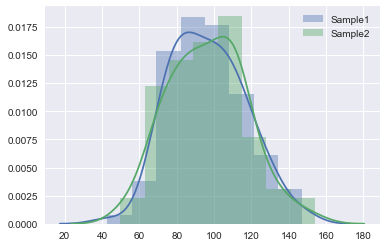
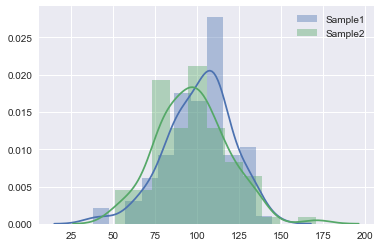
updated typeI/II readme

diff --git a/dsc-2-20-11type-1-and-type-2-errors-lab-online-ds-ft-100118_sg/README.md b/dsc-2-20-11type-1-and-type-2-errors-lab-online-ds-ft-100118_sg/README.md
@@ -12,9 +12,26 @@ In this lab, you'll run some of your own simulations to learn more about type 1 
 You will be able to:
 
 * Explain why alpha = 0.05 is chosen as the cut off point for rejecting Null hypothesis in most scientific experiments
+    * It's a convention and is a good tradeoff between type I and type II error.
+
 * Simulate Type I and Type II errors with alpha control to observe the output of an experiment
 * Describe and differentiate between TYPE I and TYPE II errors
-* Understand alpha and beta for representing false positive and false negative values
+    * Determine how type I and type II errors are effected by alpha
+    * Type I is where we see a difference but there is not one, reject but we shouldn't reject null hypothesis (false positive)
+    * Type II is where we should reject the null, but we fail to do so.  In other words we're accepting the null hypothesis, but it's actually false.
+* Describe alpha and beta for representing false positive and false negative values
+    * alpha increases
+        * type I will increase because the space outside of the 'good region' is increasing
+        * type II will decrease because the 'good region' is decreasing
+    * Converse is true if alpha decreases
+
+
+# What we learned
+* How to evaluate whether random samples are representative of a total population - chris
+* Tradeoff between type I and type II errors, dictated by alpha - Danyal
+* Sampling distributions are distributions of means, for example, of a population. - Chris
+* Learned to divide alpha by 2 to get the tails. - Masood
+* How to put a sample distribution on a sampling distribution plot/graph.
 
 ## Alpha and Beta
 
@@ -59,7 +76,7 @@ sns.distplot(pop)
 
 
 
-    <matplotlib.axes._subplots.AxesSubplot at 0x1085d2e48>
+    <matplotlib.axes._subplots.AxesSubplot at 0x1a10083dd8>
 
 
 
@@ -84,7 +101,7 @@ stats.describe(sample1)
 
 
 
-    DescribeResult(nobs=100, minmax=(42.894352216842066, 147.28560302587476), mean=96.61297543591365, variance=405.5116712908975, skewness=0.23988419345642897, kurtosis=-0.26276760640849295)
+    DescribeResult(nobs=100, minmax=(37.937428169323496, 144.9108713600725), mean=101.17878327192903, variance=390.0737390627844, skewness=-0.5052834136523039, kurtosis=0.47573896699174334)
 
 
 
@@ -101,7 +118,7 @@ stats.describe(sample2)
 
 
 
-    DescribeResult(nobs=100, minmax=(49.83527162898597, 154.07785139854766), mean=96.47071308388206, variance=433.7562450962168, skewness=0.17264373338860386, kurtosis=-0.2241136639981094)
+    DescribeResult(nobs=100, minmax=(51.29585873925131, 171.15353116938894), mean=97.26149261303051, variance=443.83261928981943, skewness=0.34305326468690917, kurtosis=0.5882283788214968)
 
 
 
@@ -120,7 +137,7 @@ stats.ttest_ind(sample1, sample2)
 
 
 
-    Ttest_indResult(statistic=0.04910657831019071, pvalue=0.9608838604654049)
+    Ttest_indResult(statistic=1.3565229770313056, pvalue=0.1764775314643652)
 
 
 
@@ -146,8 +163,11 @@ plt.show()
 
 ## Simulating Type I and II errors
 
-### Type I error
-TYPE I error describes a situation where you reject the null hypothesis when it is actually true. This type of error is also known as a "false positive" or "false hit". The type 1 error rate is equal to the significance level α, so setting a higher confidence level (and therefore lower alpha) reduces the chances of getting a false positive.
+### Type I error - Rejecting when you shouldn't
+TYPE I error describes a situation where you reject the null hypothesis when it is actually true. This type of error is also known as a "false positive" or "false hit". The type 1 error rate is equal to the significance level α, **so setting a higher confidence level (and therefore lower alpha) reduces the chances of getting a false positive.**
+
+
+### alpha = tolerance - how many sample metrics we will tolerate to be outside of the hypothesized distribution metric.
 
 
 
@@ -174,6 +194,9 @@ import pandas as pd
 
 numTests = 100
 alphaSet = [0.001, 0.01, 0.05, 0.1, 0.2, 0.5]
+
+# 0.001 alpha means
+# 
 columns = ['err', 'p_val', 'alpha']
 sigTests = pd.DataFrame(columns=columns)
 
@@ -245,31 +268,31 @@ sigTests.head()
     <tr>
       <th>1</th>
       <td>0.0</td>
-      <td>0.455428</td>
+      <td>0.467576</td>
       <td>0.001</td>
     </tr>
     <tr>
       <th>2</th>
       <td>0.0</td>
-      <td>0.730703</td>
+      <td>0.121453</td>
       <td>0.010</td>
     </tr>
     <tr>
       <th>3</th>
       <td>0.0</td>
-      <td>0.431905</td>
+      <td>0.167776</td>
       <td>0.050</td>
     </tr>
     <tr>
       <th>4</th>
       <td>0.0</td>
-      <td>0.202983</td>
+      <td>0.585402</td>
       <td>0.100</td>
     </tr>
     <tr>
       <th>5</th>
-      <td>1.0</td>
-      <td>0.179599</td>
+      <td>0.0</td>
+      <td>0.432011</td>
       <td>0.200</td>
     </tr>
   </tbody>
@@ -290,7 +313,7 @@ group_error.plot.bar(title = "TYPE I ERROR - FALSE POSITIVES")
 
 
 
-    <matplotlib.axes._subplots.AxesSubplot at 0x1a14872748>
+    <matplotlib.axes._subplots.AxesSubplot at 0x1a1b9a5cc0>
 
 
 
@@ -300,7 +323,7 @@ group_error.plot.bar(title = "TYPE I ERROR - FALSE POSITIVES")
 
 Grouped data clearly shows that as value of alpha is increases from .001 to 0.5, the probability of TYPE I errors also increase.  
 
-### Type II error 
+### Type II error - Failing to Reject when you should - 'accepting when you shouldn't accept'
 
 This error describes a situation where you fail to reject the null hypothesis when it is actually false. Type II error is also known as a "false negative" or "miss". The higher your confidence level, the more likely you are to make a type II error.
 
@@ -352,7 +375,7 @@ group_error2.plot.bar(title = "Type II ERROR - FALSE NEGATIVES")
 
 
 
-    <matplotlib.axes._subplots.AxesSubplot at 0x1a148dc358>
+    <matplotlib.axes._subplots.AxesSubplot at 0x1a1bb598d0>
 
 
 
